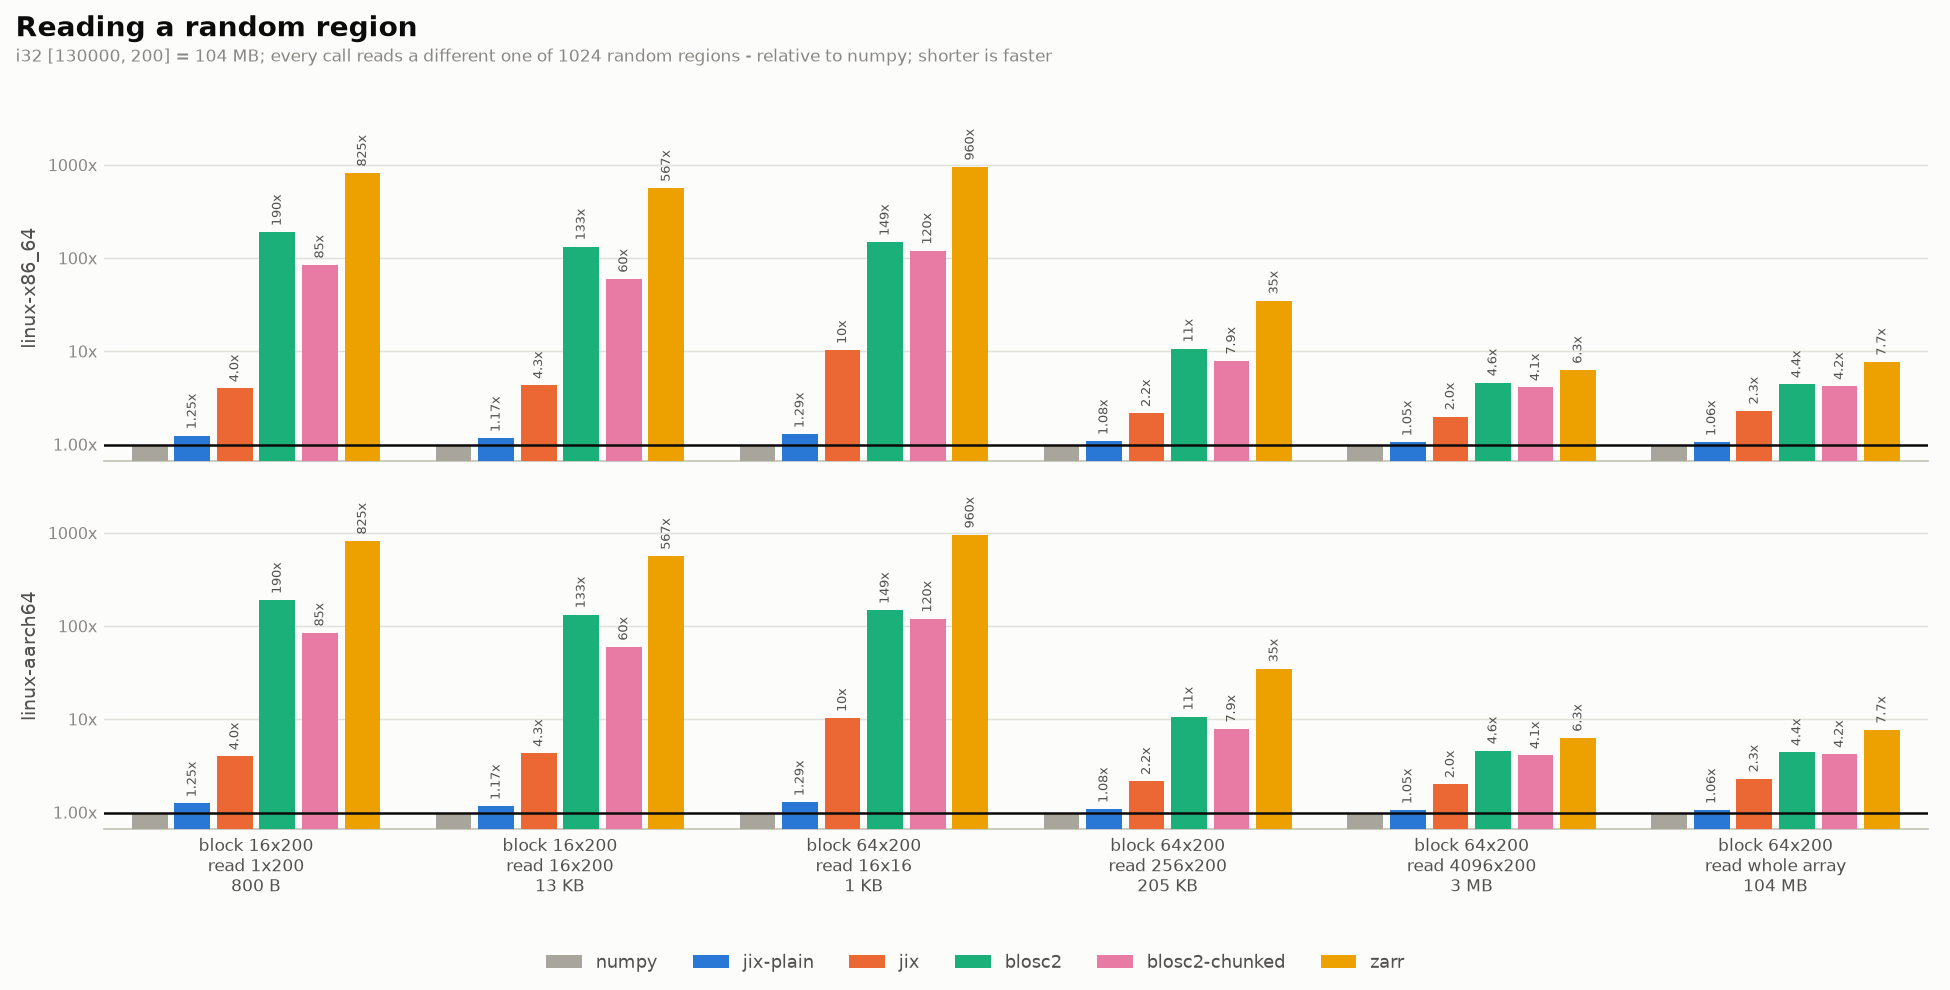
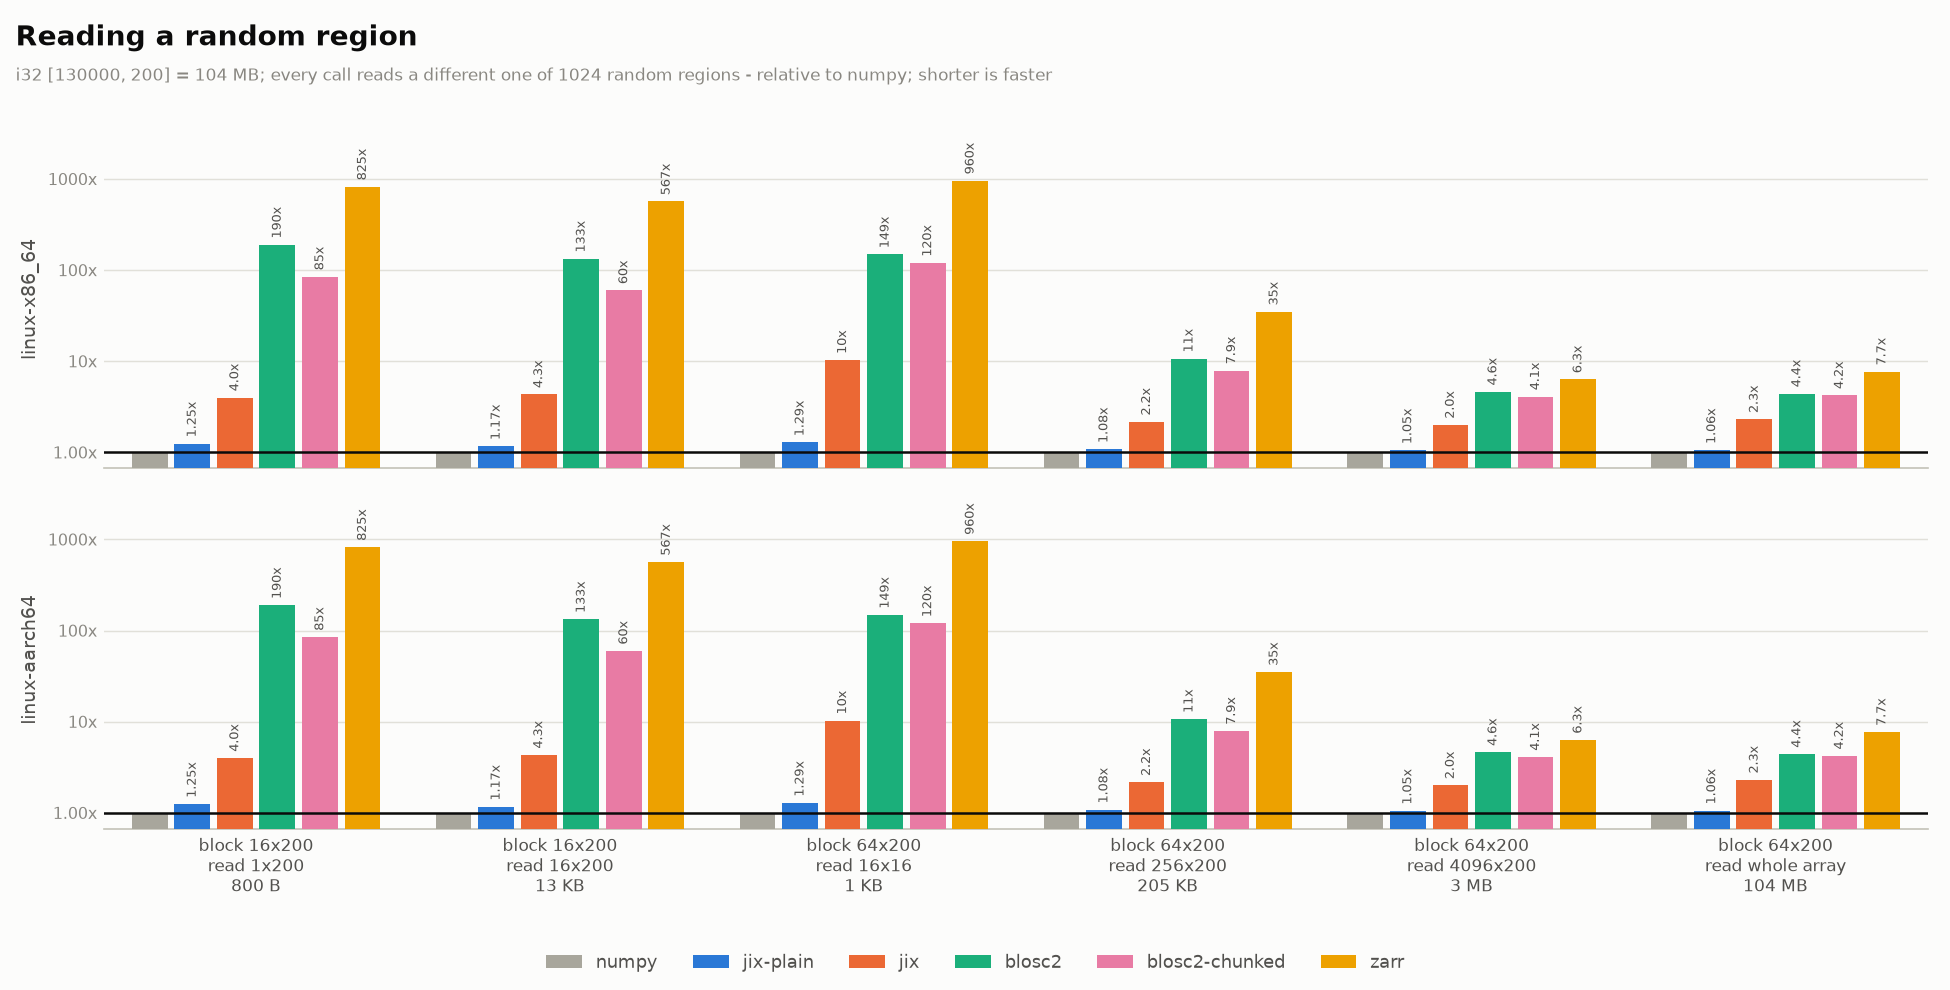
bench: fix peak RSS off /proc, fix header spacing, record first-run findings
First end-to-end local run: 242 rows, all thirteen plots, both halves parsed.
Two fixes it forced:

- peak_rss_worker sampled /proc/self/statm, which does not exist on macOS, so
  every peak-RSS benchmark measured zero and failed the run. Falls back to
  ru_maxrss where /proc is absent. The sampled path is still what the Linux
  runners use, which is where the report is published from.
- Plot header offsets were a fraction of figure height, so the subtitle landed
  on top of the title whenever a section rendered one platform row instead of
  two. Offset in inches instead.

The run also turned up two things about jix, written up in FINDINGS.md. The Rust
chain fuses exactly as claimed - flat 2.6ms to 4.0ms from 1 to 8 steps, against
ndarray's linear 2.6 to 20.9, so 5.2x at eight steps. The Python scalar-operand
path does not: it is linear at ~5ms per step despite building a single lazy
view, which is neither dtype promotion nor the Cast. Separately, normalize over
axis 0 is 17x slower than ndarray while axis 1 is 1.7x faster.

diff --git a/jix-py/python/benches/peak_rss_worker.py b/jix-py/python/benches/peak_rss_worker.py
@@ -7,11 +7,16 @@ carry every allocation every earlier test made.
 Sampling RSS in a thread rather than reading `ru_maxrss` is deliberate. `ru_maxrss` only ever
 increases, so it would report the transient of building the array - identical for every library and
 large enough to bury the thing being measured. Sampling bounds the window to the chain itself.
+
+Sampling needs `/proc/self/statm`, so it works on the Linux runners the report is published from.
+Elsewhere - a macOS dev machine, say - it falls back to `ru_maxrss`, which still produces a number
+but one that includes the construction transient. Local numbers are for checking the plumbing.
 """
 
 import argparse
 import gc
 import json
+import resource
 import sys
 import threading
 import time
@@ -27,16 +32,18 @@ from benches.data import make_data
 SAMPLE_SECONDS = 0.001
 
 
-def rss_bytes():
-    """Resident set size of this process, or None where it cannot be read cheaply."""
-    try:
-        # statm fields are in pages; the second is resident.
-        resident = int(Path("/proc/self/statm").read_text().split()[1])
-    except OSError:
-        return None
-    import resource
+STATM = Path("/proc/self/statm")
+SAMPLED = STATM.exists()
 
-    return resident * resource.getpagesize()
+
+def rss_bytes():
+    """Resident set size of this process, in bytes."""
+    if SAMPLED:
+        # statm fields are in pages; the second is resident.
+        return int(STATM.read_text().split()[1]) * resource.getpagesize()
+    # No /proc: fall back to the high-water mark. Linux reports KiB, macOS and BSD report bytes.
+    peak = resource.getrusage(resource.RUSAGE_SELF).ru_maxrss
+    return peak if sys.platform == "darwin" else peak * 1024
 
 
 class PeakSampler:
@@ -49,23 +56,21 @@ class PeakSampler:
 
     def _sample(self):
         while not self._stop.is_set():
-            current = rss_bytes()
-            if current is not None:
-                self.peak = max(self.peak, current)
+            self.peak = max(self.peak, rss_bytes())
             time.sleep(SAMPLE_SECONDS)
 
     def __enter__(self):
-        self.peak = rss_bytes() or 0
-        self._thread = threading.Thread(target=self._sample, daemon=True)
-        self._thread.start()
+        self.peak = rss_bytes()
+        if SAMPLED:
+            self._thread = threading.Thread(target=self._sample, daemon=True)
+            self._thread.start()
         return self
 
     def __exit__(self, *exc):
         self._stop.set()
-        self._thread.join(timeout=1.0)
-        current = rss_bytes()
-        if current is not None:
-            self.peak = max(self.peak, current)
+        if self._thread is not None:
+            self._thread.join(timeout=1.0)
+        self.peak = max(self.peak, rss_bytes())
 
 
 def main(argv=None):
@@ -82,7 +87,7 @@ def main(argv=None):
     with PeakSampler() as sampler:
         out = arr.chain(args.steps)
         assert out is not None
-    print(json.dumps({"peak_rss_bytes": sampler.peak}))
+    print(json.dumps({"peak_rss_bytes": sampler.peak, "sampled": SAMPLED}))
     return sampler.peak
 
 

diff --git a/jix-py/python/benches/report_bars.py b/jix-py/python/benches/report_bars.py
@@ -273,15 +273,18 @@ def plot_section(rows, section, out_dir):
     axes[-1].set_xticklabels(cases, fontsize=8, color=THEME["sub"])
     axes[-1].set_xlim(-0.5, len(cases) - 0.5)
 
-    fig.text(0.008, 0.985, section["title"], fontsize=13.5, fontweight="bold", color=THEME["ink"], va="top")
+    # Header offsets in inches, converted to figure fractions: a fraction would put the title and
+    # subtitle on top of each other whenever the figure is short (one platform instead of two).
     fig.text(
         0.008,
-        0.951,
-        subtitle,
-        fontsize=8.2,
-        color=THEME["muted"],
+        1 - 0.16 / height,
+        section["title"],
+        fontsize=13.5,
+        fontweight="bold",
+        color=THEME["ink"],
         va="top",
     )
+    fig.text(0.008, 1 - 0.45 / height, subtitle, fontsize=8.2, color=THEME["muted"], va="top")
     handles = [plt.Rectangle((0, 0), 1, 1, fc=library_color(lib), ec="none") for lib in libraries]
     fig.legend(
         handles,
@@ -293,7 +296,7 @@ def plot_section(rows, section, out_dir):
         labelcolor=THEME["sub"],
         bbox_to_anchor=(0.5, 0.002),
     )
-    fig.tight_layout(rect=(0, 0.04 + 0.2 / height, 1, 1 - 0.62 / height))
+    fig.tight_layout(rect=(0, 0.04 + 0.2 / height, 1, 1 - 0.72 / height))
     out = Path(out_dir) / f"{section['key']}.png"
     out.parent.mkdir(parents=True, exist_ok=True)
     fig.savefig(out, dpi=150, facecolor=THEME["surface"])

diff --git a/bench-report/build_report.py b/bench-report/build_report.py
@@ -57,10 +57,15 @@ def main(argv=None):
         rows += run_rows
         print(f"{platform}: {len(run_rows)} rows from {meta['sha'][:8]} ({meta['platform']['cpu_model']})")
 
+    # Published reports come from the two CI runners, in that order. A local run is on whatever
+    # machine you are sitting at, so fall back to plotting what is actually there.
     ordered = [p for p in report_spec.PLATFORMS if p in platforms]
-    missing = sorted(set(platforms) - set(ordered))
-    if missing:
-        print(f"warning: results from unexpected platforms, not plotted: {missing}")
+    extra = sorted(set(platforms) - set(ordered))
+    if extra:
+        print(f"note: results from platforms the report does not publish: {extra}")
+    ordered = ordered or extra
+    if not ordered:
+        raise SystemExit("no usable results found")
 
     for section in report_spec.SECTIONS:
         out = report_bars.plot_section(rows, {**section, "platforms": ordered}, args.out)

diff --git a/bench-report/FINDINGS.md b/bench-report/FINDINGS.md
@@ -131,3 +131,50 @@ use that, and would be a different benchmark.
 (12 here). Every elementwise blosc2 number measured before this was fixed was multi-threaded
 against single-threaded jix and numpy. Fixed in `array_impls.py` with
 `numexpr.set_num_threads(NTHREADS)`.
+
+## jix fuses chains in Rust but not through the Python scalar-operand path
+
+Found by the first local run. Measured on an Apple M3 Pro, `[130000, 200] f32`, chain of alternating
+`* 2.0` / `+ 1.0` steps. Rust is Criterion at `--fast`; Python is the best of five warm rounds.
+
+| steps | Rust ndarray | Rust jix-plain | Python numpy | Python jix-plain |
+|---|---|---|---|---|
+| 1 | 2.6 ms | 2.6 ms | 2.2 ms | 6.2 ms |
+| 2 | 5.2 ms | 2.5 ms | 4.2 ms | 12.2 ms |
+| 4 | 9.9 ms | 2.7 ms | 8.7 ms | 24.1 ms |
+| 8 | 20.9 ms | **4.0 ms** | 17.5 ms | **48.6 ms** |
+
+**Rust is flat and ndarray is linear** - 5.2x faster at eight steps. That is the library's central
+claim, working exactly as advertised.
+
+**Python is linear, at about 5 ms per step.** The chain is genuinely lazy - the storage tree is
+`Add<Mul<Add<Mul<Plain, Cast<Scalar>>, ...>, ...>, ...>`, one view materialized once - so this is
+not a missing-fusion bug. It is that each `array op scalar` step costs a full pass worth of time
+even when fused. For 26M elements, 5 ms per step is roughly 0.8 cycles per element per step, which
+is what a scalar loop costs and about 25x what a vectorized one should.
+
+Two things it is not:
+- **Not dtype promotion.** `f32 * 2.0` stays `f32` in jix, same as numpy under NEP 50.
+- **Not the `Cast`.** Passing `np.float32` constants instead of Python floats avoids the cast and
+  saves only ~15% (40.6 ms against 48.6 ms at eight steps); the linear scaling is unchanged.
+
+The difference in formulation matters when reading this: Rust has no scalar-operand operators, so
+the Rust arm chains `.map(|x| x * 2.0)` closures, while Python chains `Mul<X, Cast<Scalar>>` binary
+ops against a broadcast scalar. So the comparison localizes the cost to the broadcast-scalar
+elementwise kernel rather than to the Python bindings as such.
+
+Until this is addressed, the chain section of the report will show jix losing to numpy in Python
+and beating ndarray in Rust. Both are true, and the report should say so.
+
+## `normalize` over axis 0 is 17x slower than ndarray
+
+From the same run, `a / a.std(axis).insert_axis(axis).broadcast(shape)` on `[130000, 200] f32`:
+
+| axis | ndarray | jix-plain | jix (compact) |
+|---|---|---|---|
+| 0 | 6.2 ms | **109.0 ms** | 397.0 ms |
+| 1 | 84.1 ms | 48.4 ms | 121.2 ms |
+
+Axis 1 goes the expected way - jix is 1.7x faster. Axis 0 is a 17.6x loss, and the asymmetry
+between the two axes is far larger for jix than for ndarray. Worth a look independently of the
+report; `--fast` Criterion settings on a busy laptop do not produce a 17x artifact.

diff --git a/bench-report/NOTES.md b/bench-report/NOTES.md
@@ -146,3 +146,22 @@ about the timings would have shown this. The chain loop now lives once in `Abstr
 than four times, so the arms cannot drift apart again.
 
 Platforms cut to `ubuntu-24.04` and `ubuntu-24.04-arm`, in the report and in the workflow.
+
+### Iteration 7 - first real run
+
+Ran the suite locally end to end (`scripts/bench/run.py --suites both --fast`, then
+`build_report.py`). 242 rows, all thirteen plots, both halves parsed - so the plumbing works.
+
+Two fixes it forced:
+
+- **Peak RSS needs a fallback.** `/proc/self/statm` does not exist on macOS, so all twelve
+  `test_peak_rss` benchmarks asserted zero and failed the run. Now falls back to `ru_maxrss` off
+  `/proc`, which includes the construction transient - fine, since the report is published from
+  Linux runners where the sampled path is used.
+- **Header spacing was a fraction of figure height**, so the subtitle sat on the title whenever a
+  plot had one platform row instead of two. Now offset in inches.
+
+And two findings about jix itself, in `FINDINGS.md`: the Rust chain fuses perfectly (flat 2.6 ms to
+4.0 ms across 1 to 8 steps, against ndarray's linear 2.6 to 20.9) while the Python scalar-operand
+path is linear at ~5 ms per step; and `normalize` over axis 0 is 17x slower than ndarray while axis
+1 is 1.7x faster.
